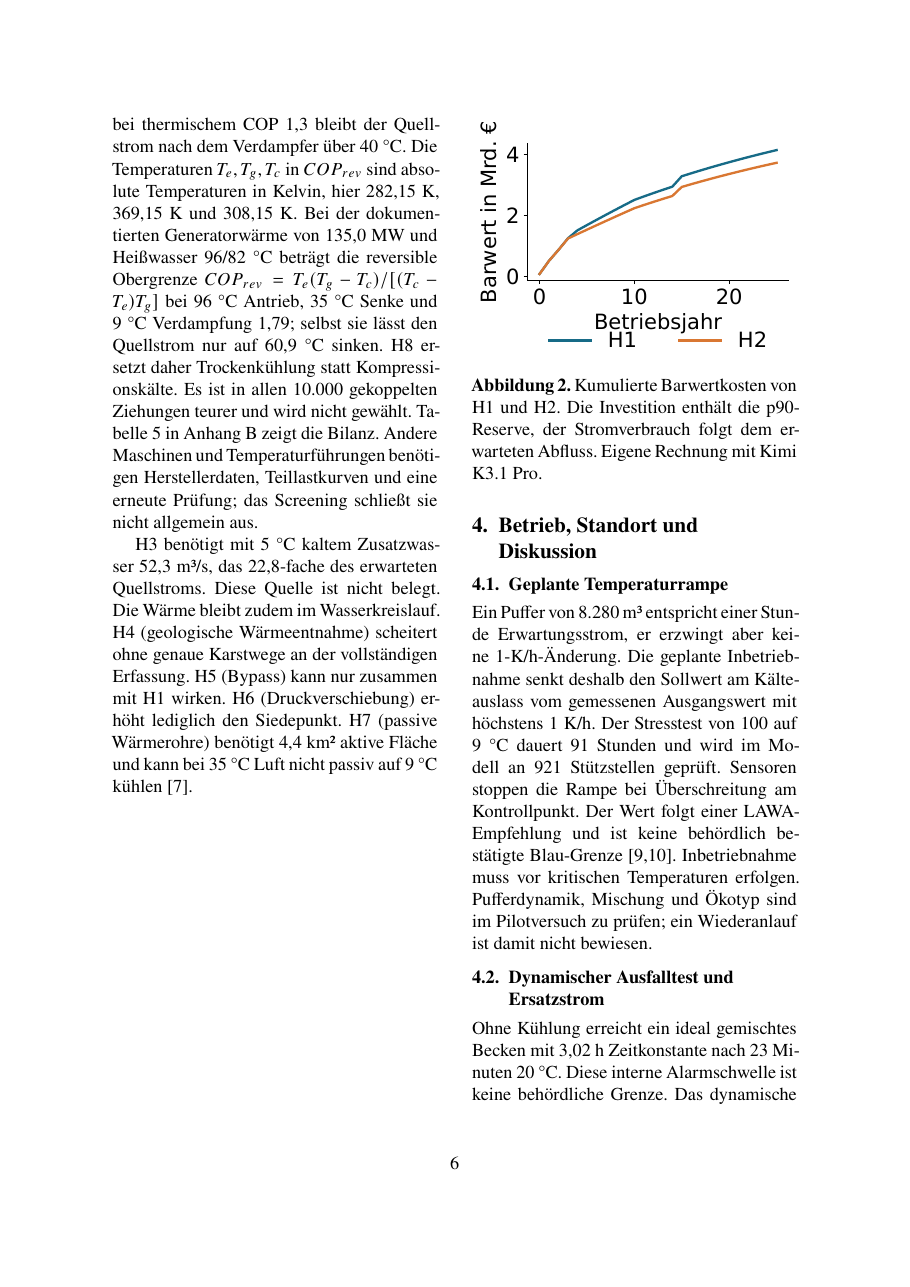
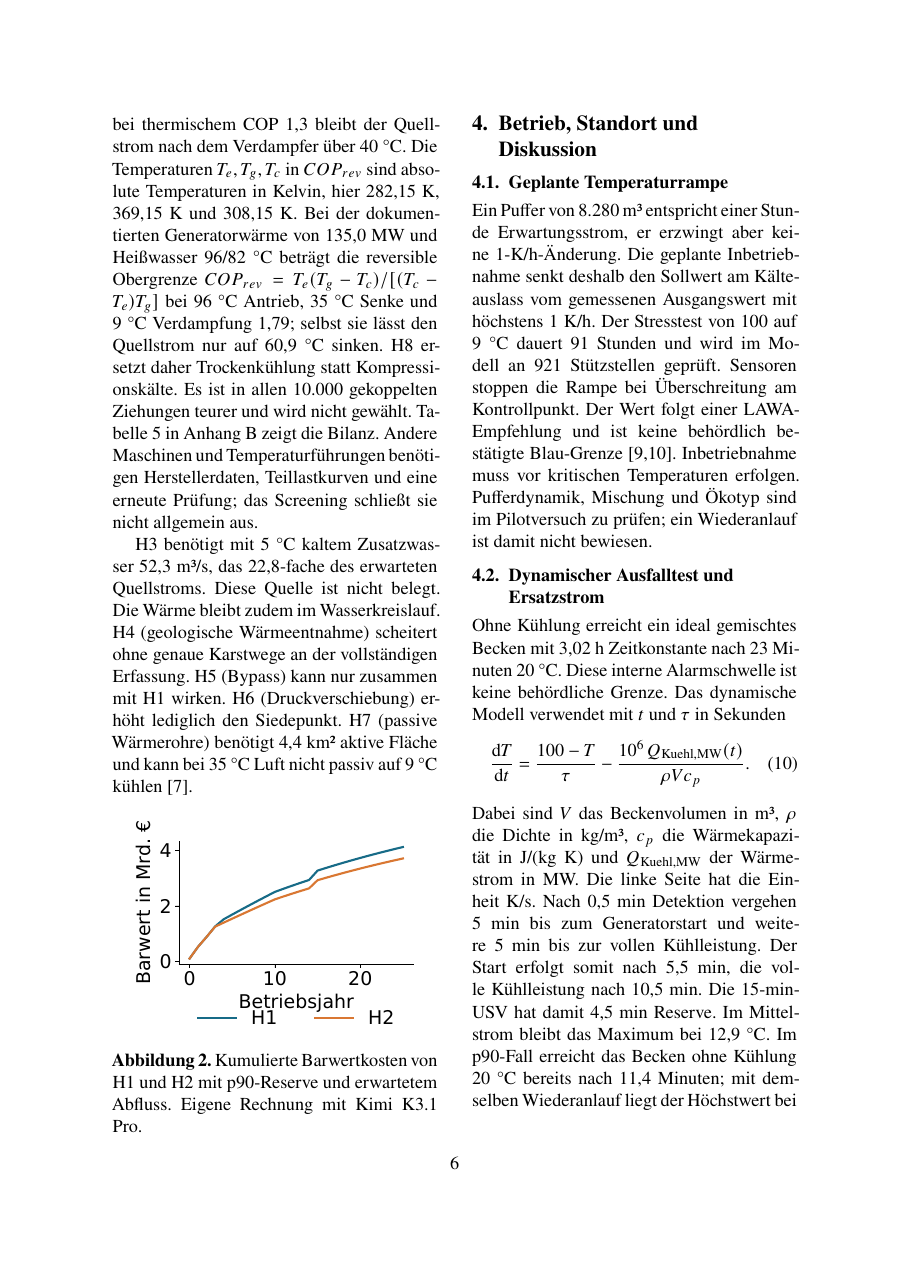
Fit Figure 2 into the left column

diff --git a/report/main.tex b/report/main.tex
@@ -173,8 +173,8 @@ H3 benötigt mit 5~°C kaltem Zusatzwasser \DilutionFlow~m³/s, das \DilutionRat
 
 \begin{figure}[H]
 \centering
-\includegraphics[width=\columnwidth]{figures/fig03_kostenpfad.pdf}
-\caption{Kumulierte Barwertkosten von H1 und H2. Die Investition enthält die p90-Reserve, der Stromverbrauch folgt dem erwarteten Abfluss. Eigene Rechnung mit Kimi K3.1 Pro.}
+\includegraphics[width=0.90\columnwidth]{figures/fig03_kostenpfad.pdf}
+\caption{Kumulierte Barwertkosten von H1 und H2 mit p90-Reserve und erwartetem Abfluss. Eigene Rechnung mit Kimi K3.1 Pro.}
 \label{fig:kosten}
 \end{figure}
 

diff --git a/review/revisions.md b/review/revisions.md
@@ -394,6 +394,14 @@ Die zweite Design-Runde war nicht bestanden, vergab aber bei beiden Reviewern D5
 
 Die dritte Design-Runde war nicht bestanden. Die neue Revision enthält 24 bestandene Modelltests und 15 Seiten mit 10 Haupttext- und 5 Literatur-/Anhangsseiten. Die wissenschaftlichen Ergebnisdateien sind unverändert. Vor der nächsten Bewertung ist die Archivreproduktion erforderlich. Frühere Punktzahlen werden nicht übernommen.
 
+## Befund aus Design-Runde 18
+
+| Befund | Konkrete Änderung oder begründete Grenze | Verifikation |
+| --- | --- | --- |
+| Beide Reviewer, 77 bis 80 mm Leerraum auf PDF-Seite 7 | Abbildung 2 nutzt 90 % der Spaltenbreite und eine kürzere Unterschrift. Sie bleibt nach H3 und vor Abschnitt 4. Die effektive Schrift bleibt über 12 pt, der Leerraum ist deutlich reduziert. | `report/main.tex`, PDF-Seite 7, `make verify` |
+
+Die vierte Design-Runde war nicht bestanden, vergab aber bei beiden Reviewern D5 10 für formale Compliance. Die neue Revision enthält 24 bestandene Modelltests und 15 Seiten mit 10 Haupttext- und 5 Literatur-/Anhangsseiten. Die wissenschaftlichen Ergebnisdateien sind unverändert. Vor der nächsten Bewertung ist die Archivreproduktion erforderlich. Frühere Punktzahlen werden nicht übernommen.
+
 ## Aktueller Lieferumfang
 
 Nach der Nutzerkorrektur ist nur der Research Paper Produkt. Die Kriterien 1 bis 6, 8 bis 11 und 12a bleiben Prüfgegenstand. Kriterium 12b und die Präsentationsartefakte werden nicht fortentwickelt. Nach den fachlichen Council-Runden folgt ein eigener Design-Council für den Research Paper.
